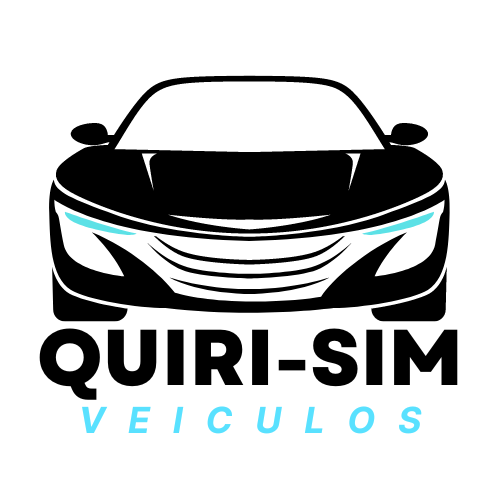
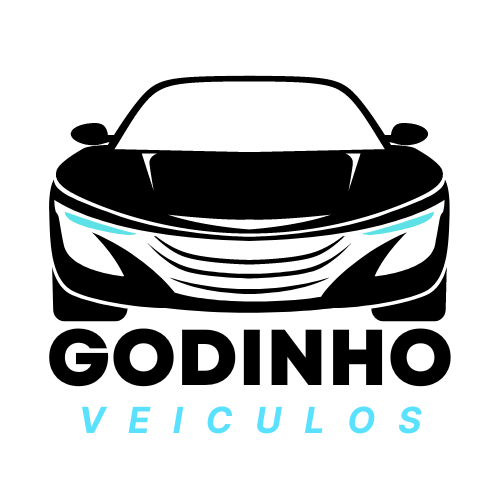
mudei os nome ai

Changed region(s): [[0.06, 0.63, 0.75, 0.81], [0.78, 0.66, 0.93, 0.78]]

diff --git a/view/index.html b/view/index.html
@@ -11,7 +11,7 @@
         integrity="sha384-HwwvtgBNo3bZJJLYd8oVXjrBZt8cqVSpeBNS5n7C8IVInixGAoxmnlMuBnhbgrkm"
         crossorigin="anonymous"></script>
     <script type="text/javascript" src="js/script.js"></script>
-    <title>QUIRI-SIM VEÍCULOS</title>
+    <title>GODINHO VEÍCULOS</title>
 </head>
 
 <body>
@@ -20,7 +20,7 @@
         <div class="container-fluid">
             <a class="navbar-brand" href="#">
                 <img src="../assets/img/qUIRINO vEICULOS.png"
-                    alt="" width="70"> <b>QUIRI-SIM </b></img>
+                    alt="" width="70"> <b>GODINHO </b></img>
             </a>
             <button class="navbar-toggler" type="button" data-bs-toggle="collapse"
                 data-bs-target="#navbarSupportedContent" aria-controls="navbarSupportedContent" aria-expanded="false"
